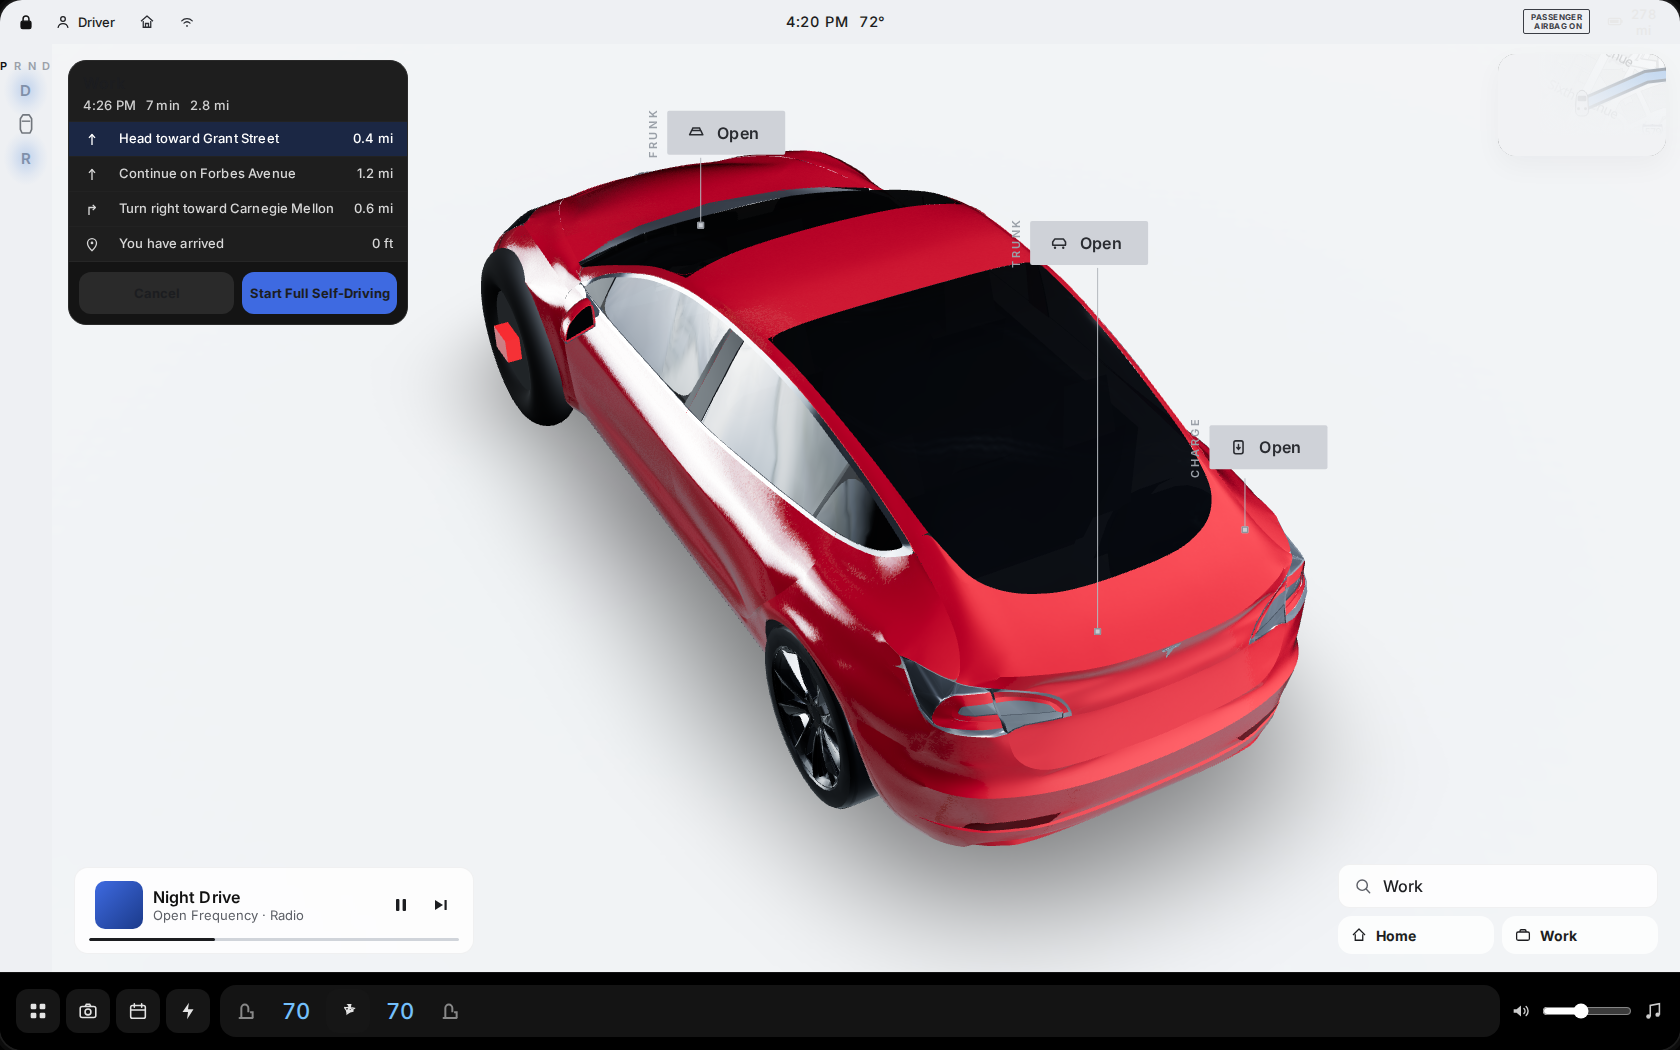
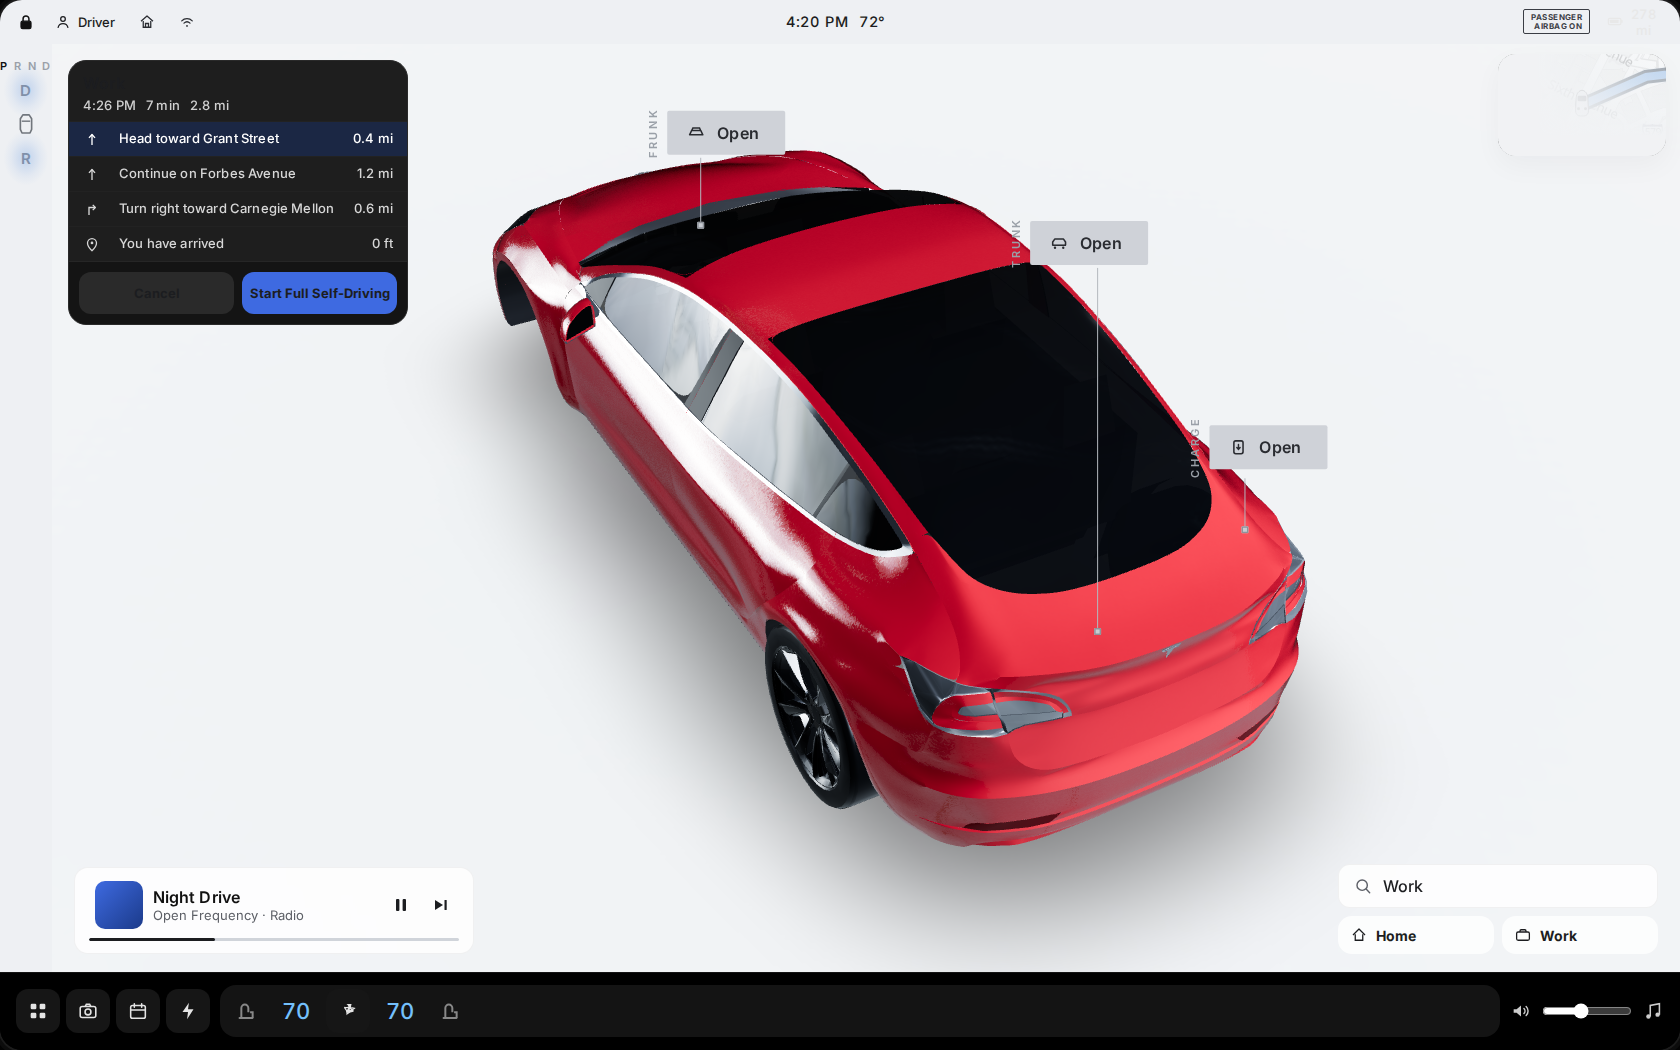
Refine hub-anchored aero wheels and update QA review

Changed region(s): [[0.2786, 0.2133, 0.3405, 0.4267], [0.4643, 0.579, 0.5262, 0.6095]]

diff --git a/src/viz/AeroWheel.tsx b/src/viz/AeroWheel.tsx
@@ -13,15 +13,15 @@ import {
 
 const RUBBER = new Color("#050506");
 const SIDEWALL = new Color("#0a0a0c");
-const RIM = new Color("#14161a");
-const COVER = new Color("#1a1d22");
+const RIM = new Color("#14171b");
+const COVER = new Color("#1d2127");
 const HUB = new Color("#0c0e10");
-const ROTOR = new Color("#7c828a");
-const CALIPER = new Color("#b01018");
+const ROTOR = new Color("#4e555d");
+const CALIPER = new Color("#565b64");
 
 function petalGeometry(inner: number, outer: number, halfAngle: number, depth: number): ExtrudeGeometry {
   const shape = new Shape();
-  const steps = 10;
+  const steps = 16;
   for (let i = 0; i <= steps; i++) {
     const t = -halfAngle + (2 * halfAngle * i) / steps;
     const x = Math.cos(t) * outer;
@@ -54,16 +54,18 @@ function phys(color: Color, extra: ConstructorParameters<typeof MeshPhysicalMate
 }
 
 /** Original 5-cover aero wheel — not a Tesla asset. Sized for a Model 3 18" setup. */
-export function createAeroWheel(radius = 0.338, width = 0.235): Group {
+export function createAeroWheel(radius = 0.338, width = 0.235, side: "L" | "R" = "R"): Group {
   const rimR = radius * 0.56;
+  const sideSign = side === "L" ? -1 : 1;
   const group = new Group();
   group.name = "aero-wheel";
 
   const tire = new Mesh(
-    new TorusGeometry(radius * 0.84, width * 0.42, 24, 64),
+    new TorusGeometry(radius * 0.84, width * 0.42, 30, 88),
     phys(RUBBER, { roughness: 0.96, metalness: 0 }),
   );
   tire.rotation.y = Math.PI / 2;
+  tire.scale.y = 0.95;
   tire.castShadow = true;
   tire.receiveShadow = true;
   group.add(tire);
@@ -78,41 +80,61 @@ export function createAeroWheel(radius = 0.338, width = 0.235): Group {
 
   const rim = new Mesh(
     new CylinderGeometry(rimR * 1.02, rimR * 0.96, width * 0.28, 64),
-    phys(RIM, { metalness: 0.9, roughness: 0.26, clearcoat: 0.28, clearcoatRoughness: 0.22 }),
+    phys(RIM, { metalness: 0.38, roughness: 0.64, clearcoat: 0.08, clearcoatRoughness: 0.62 }),
   );
   rim.rotation.z = Math.PI / 2;
   rim.castShadow = true;
   group.add(rim);
 
-  const petal = petalGeometry(rimR * 0.28, rimR * 0.98, 0.42, width * 0.11);
-  const coverMat = phys(COVER, { metalness: 0.72, roughness: 0.38, clearcoat: 0.18, clearcoatRoughness: 0.4 });
+  const facePlate = new Mesh(
+    new CylinderGeometry(rimR * 0.98, rimR * 0.98, width * 0.042, 64),
+    phys(new Color("#171b20"), { metalness: 0.32, roughness: 0.66 }),
+  );
+  facePlate.rotation.z = Math.PI / 2;
+  facePlate.position.x = sideSign * width * 0.34;
+  group.add(facePlate);
+
+  const petal = petalGeometry(rimR * 0.34, rimR * 0.99, 0.62, width * 0.105);
+  const coverMat = phys(COVER, { metalness: 0.28, roughness: 0.62, clearcoat: 0.05, clearcoatRoughness: 0.72 });
   for (let i = 0; i < 5; i++) {
     const cover = new Mesh(petal, coverMat);
     cover.rotation.x = (i * Math.PI * 2) / 5;
+    cover.position.x = sideSign * width * 0.37;
     cover.castShadow = true;
     group.add(cover);
   }
 
+  const cavityBlocker = new Mesh(
+    new CylinderGeometry(rimR * 0.9, rimR * 0.9, width * 0.12, 48),
+    phys(new Color("#090b0d"), { roughness: 0.9, metalness: 0.04 }),
+  );
+  cavityBlocker.rotation.z = Math.PI / 2;
+  cavityBlocker.position.x = -sideSign * width * 0.2;
+  group.add(cavityBlocker);
+
   const hub = new Mesh(
-    new CylinderGeometry(rimR * 0.24, rimR * 0.24, width * 0.34, 32),
-    phys(HUB, { metalness: 0.78, roughness: 0.32 }),
+    new CylinderGeometry(rimR * 0.22, rimR * 0.22, width * 0.12, 32),
+    phys(HUB, { metalness: 0.4, roughness: 0.54 }),
   );
   hub.rotation.z = Math.PI / 2;
+  hub.position.x = sideSign * width * 0.4;
   hub.castShadow = true;
   group.add(hub);
 
   const rotor = new Mesh(
-    new CylinderGeometry(rimR * 0.48, rimR * 0.48, 0.018, 40),
-    phys(ROTOR, { metalness: 0.88, roughness: 0.38 }),
+    new CylinderGeometry(rimR * 0.52, rimR * 0.52, 0.02, 40),
+    phys(ROTOR, { metalness: 0.62, roughness: 0.58 }),
   );
   rotor.rotation.z = Math.PI / 2;
+  rotor.position.x = -sideSign * width * 0.22;
   group.add(rotor);
 
   const caliper = new Mesh(
-    new BoxGeometry(0.07, 0.11, 0.15),
-    phys(CALIPER, { metalness: 0.22, roughness: 0.4, clearcoat: 0.35 }),
+    new BoxGeometry(0.052, 0.1, 0.145),
+    phys(CALIPER, { metalness: 0.38, roughness: 0.46, clearcoat: 0.14 }),
   );
-  caliper.position.set(rimR * 0.46, 0, 0);
+  caliper.position.set(-sideSign * width * 0.25, rimR * 0.2, -rimR * 0.28);
+  caliper.rotation.x = 0.18;
   caliper.castShadow = true;
   group.add(caliper);
 
@@ -122,10 +144,12 @@ export function createAeroWheel(radius = 0.338, width = 0.235): Group {
 export function AeroWheel({
   radius = 0.338,
   width = 0.235,
+  side = "R",
 }: {
   radius?: number;
   width?: number;
+  side?: "L" | "R";
 }): ReactNode {
-  const wheel = useMemo(() => createAeroWheel(radius, width), [radius, width]);
+  const wheel = useMemo(() => createAeroWheel(radius, width, side), [radius, side, width]);
   return <primitive object={wheel} />;
 }

diff --git a/src/viz/wheelHubs.ts b/src/viz/wheelHubs.ts
@@ -11,6 +11,10 @@ export type WheelHub = {
 
 const WHEEL_PARENT = /^wheel(?:\.\d+)?$/i;
 const CALIPER_PARENT = /^cal(?:\.\d+)?$/i;
+const AERO_RADIUS_M = 0.365;
+const AERO_WIDTH_M = 0.238;
+const HUB_OUTBOARD_X = 0.15;
+const HUB_LIFT_Y = 0.012;
 
 export function isStockWheelPart(name: string): boolean {
   return WHEEL_PARENT.test(name) || CALIPER_PARENT.test(name) || /^wheel/i.test(name) || /^cal(?:\.|_|\b)/i.test(name);
@@ -44,14 +48,17 @@ function localWheelBox(parent: Object3D): Box3 {
 
 function localWheelSize(parent: Object3D): { radius: number; width: number; center: Vector3 } {
   const box = localWheelBox(parent);
+  if (box.isEmpty()) {
+    return { radius: 0.34, width: 0.22, center: new Vector3() };
+  }
   const size = box.getSize(new Vector3());
   const center = box.getCenter(new Vector3());
   const radius = Math.min(0.42, Math.max(0.32, Math.max(size.y, size.z) * 0.5));
-  const width = Math.min(0.3, Math.max(0.2, size.x));
+  const width = Math.min(0.3, Math.max(0.12, size.x));
   return { radius, width, center };
 }
 
-/** Hide stock discs/calipers and parent original aero wheels at the GLB hub nodes. */
+/** Hide stock discs/calipers and parent 5-cover aero wheels at GLB hub nodes. */
 export function replaceStockWheels(root: Object3D): WheelHub[] {
   root.updateMatrixWorld(true);
   const parents: Object3D[] = [];
@@ -67,17 +74,26 @@ export function replaceStockWheels(root: Object3D): WheelHub[] {
     const { center } = localWheelSize(parent);
     const world = new Vector3();
     parent.getWorldPosition(world);
-    const wheel = createAeroWheel(0.365, 0.245);
+    const side: "L" | "R" = center.x < 0 || (Math.abs(center.x) < 1e-4 && world.x < 0) ? "L" : "R";
+    const sideSign = side === "L" ? -1 : 1;
+    const wheel = createAeroWheel(AERO_RADIUS_M, AERO_WIDTH_M, side);
     wheel.position.copy(center);
-    wheel.position.x += (world.x < 0 ? -1 : 1) * 0.1;
-    wheel.position.y += 0.02;
+    wheel.position.x = sideSign * HUB_OUTBOARD_X;
+    wheel.position.y += HUB_LIFT_Y;
+    wheel.rotation.x = sideSign * 0.24;
+    wheel.userData.hubAnchor = {
+      from: parent.name,
+      side,
+      bboxCenter: [center.x, center.y, center.z] as const,
+    };
     parent.add(wheel);
+    const wheelWorld = parent.localToWorld(wheel.position.clone());
     hubs.push({
       id: parent.name.toLowerCase(),
-      position: [world.x, world.y, world.z],
-      radius: 0.365,
-      width: 0.245,
-      side: world.x < 0 ? "L" : "R",
+      position: [wheelWorld.x, wheelWorld.y, wheelWorld.z],
+      radius: AERO_RADIUS_M,
+      width: AERO_WIDTH_M,
+      side,
     });
   }
 

diff --git a/docs/qa/MESH_REVIEW.md b/docs/qa/MESH_REVIEW.md
@@ -80,6 +80,21 @@ Still: `parked-home.png` after parenting a sized cabin blocker to the clone (the
 
 **Ceiling (honest):** parked-home no longer reads as the toy 27k disc-wheel car, but it is not a Tesla viz one-to-one. Remaining FAILs that need a different mesh (Highland / the 737k David_Holiday we cannot download without Sketchfab auth): fender-well wrap, panel gaps, glass laminate, aero face from every hub. Do not apply the overlapping paint AO atlas. Floor stays blit-safe (no `MeshReflectorMaterial`).
 
+## Iteration 5 — 2026-09-16 (hub-anchored 5-cover aero remesh, working tree)
+
+Still: `parked-home.png` after replacing stock wheel meshes at each `wheel`/`wheel.N` parent with side-aware 5-cover aero groups, dark cavity blockers, and subtler calipers.
+
+| Axis | Score | Notes |
+| --- | --- | --- |
+| Paint | PARTIAL | Candy coat and studio highlights remain stable vs iter 4; still flatter/darker than nata around the C-pillar streak. |
+| Glass | PARTIAL | Cabin blocker still prevents tunnel-through; side glass remains too open vs nata’s deeper laminate tint. |
+| Wheels | PARTIAL | All four hub parents now carry a stable aero wheel (no empty front-left hole, no red inner cavity). Rear-right reads closer to nata’s 5-cover look, but front-left still favors sidewall silhouette over visible cover at this camera. |
+| Proportions | PARTIAL | Rear-right 3/4 pose remains aligned; wheel-well/fender cutout topology still limits a true nata-like wrap around the front-left arch. |
+| Lighting | PARTIAL | White studio and contact shadow remain close enough for wheel validation; still lighter than nata’s denser rear shadow oval. |
+| Leaders | PARTIAL | TRUNK pin remains on decklid but card still intersects backlight space. |
+
+**Ceiling (wheels):** hub parenting + bbox-centered placement is now stable across parked/route QA captures, but strict 1:1 aero read from this angle is constrained by the low-poly wheel-well/fender geometry. Without a higher-fidelity CC-BY wheel-arch mesh, further material-only tweaks are likely diminishing returns.
+
 
 
 
